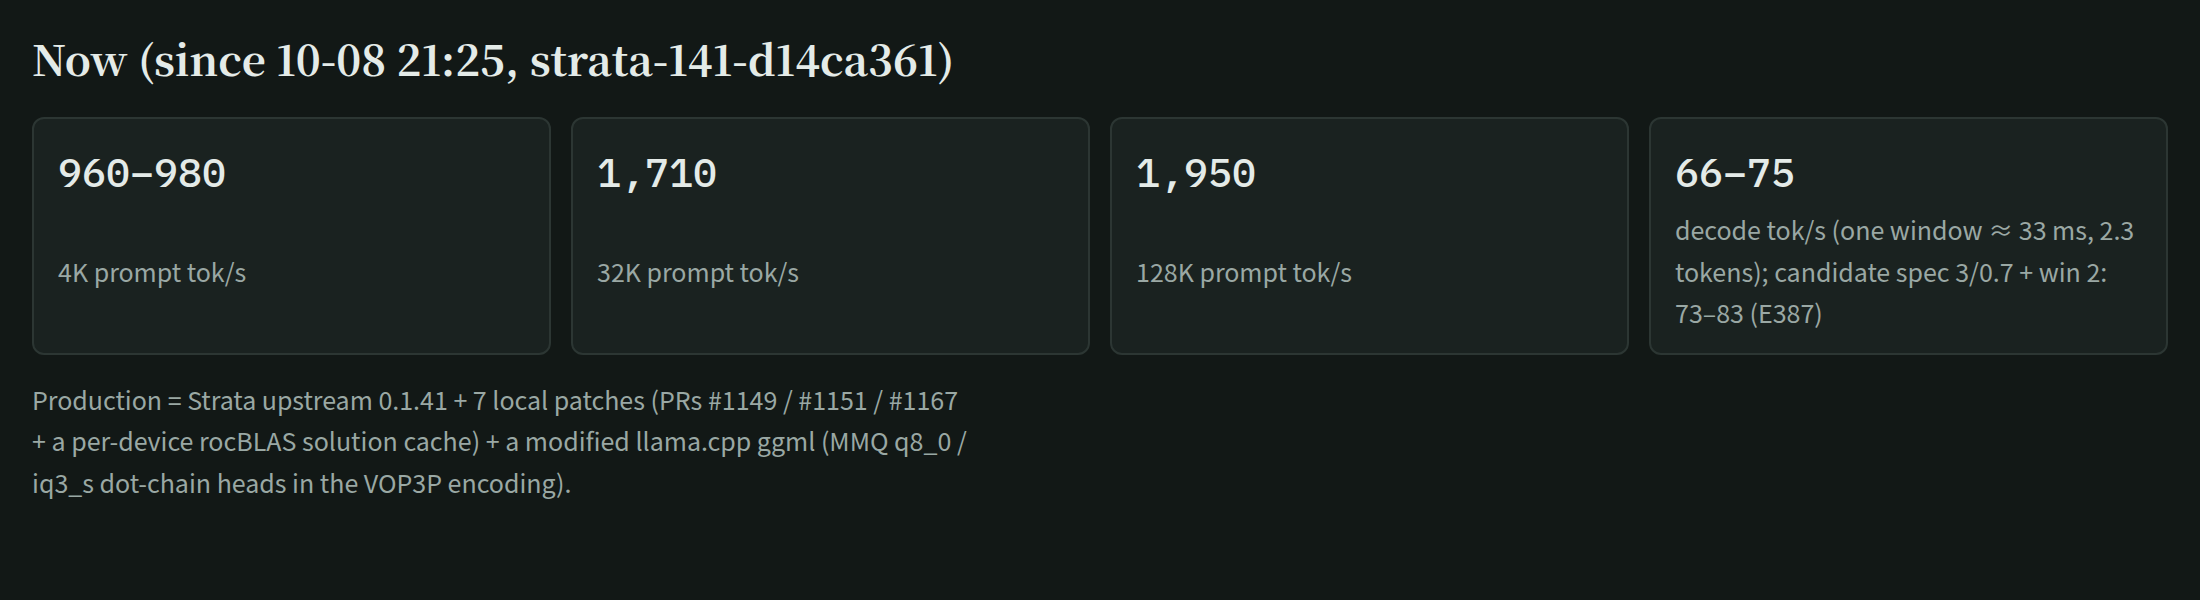
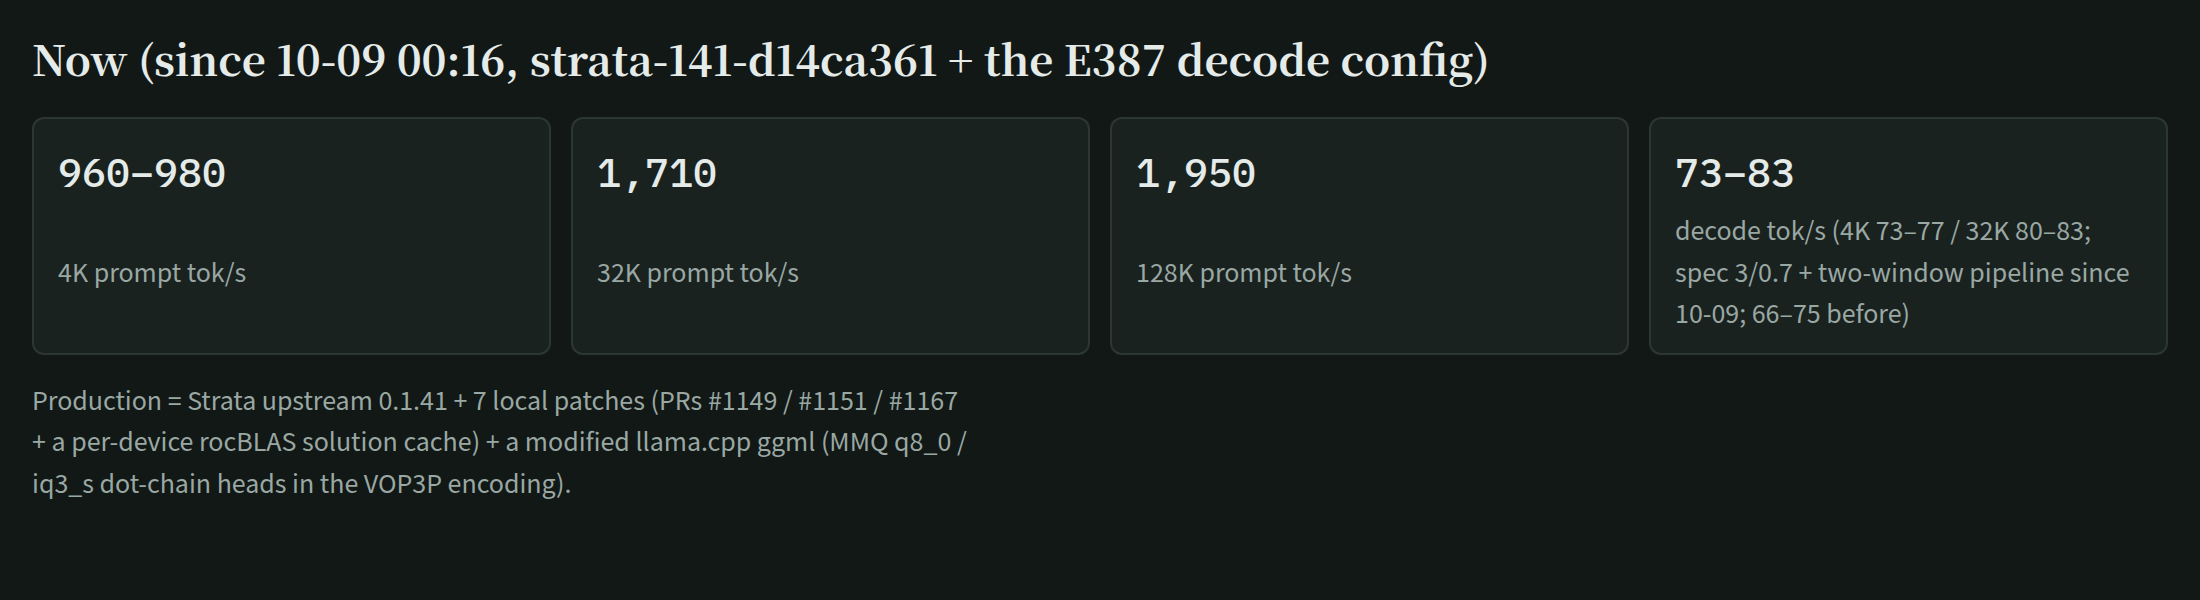
E387 decode config in production (10-09 00:16): status cards 73-83, chart point, timeline rows; images re-rendered

diff --git a/index.html b/index.html
@@ -79,12 +79,12 @@ code{font-family:var(--f-data);font-size:.92em}
 </header>
 
 <section>
-  <h2>现在（10-08 21:25 起，strata-141-d14ca361）</h2>
+  <h2>现在（10-09 00:16 起，strata-141-d14ca361 + E387 解码配置）</h2>
   <div class="now">
     <div><b>960–980</b><small>4K prompt tok/s</small></div>
     <div><b>1,710</b><small>32K prompt tok/s</small></div>
     <div><b>1,950</b><small>128K prompt tok/s</small></div>
-    <div><b>66–75</b><small>解码 tok/s（每窗 33 ms、2.3 token）；候选 spec 3/0.7 + win 2：73–83（E387）</small></div>
+    <div><b>73–83</b><small>解码 tok/s（4K 73–77 / 32K 80–83；spec 3/0.7 + 两窗流水线，10-09 起；之前 66–75）</small></div>
   </div>
   <p class="foot">生产 = Strata 上游 0.1.41 + 7 个本地补丁（PR #1149 / #1151 / #1167 + rocBLAS 解的本机缓存）+ 自改的 llama.cpp ggml（MMQ 的 q8_0 / iq3_s dot 链头用 VOP3P 编码）。</p>
 </section>
@@ -109,7 +109,7 @@ code{font-family:var(--f-data);font-size:.92em}
 <section>
   <h2>已经到地板的（10-08 后别再提）</h2>
   <ul class="closed">
-    <li><b>解码的配置级旋钮单独调都到头了：</b><code>--kv-resident</code> 缩小（E382，专家槽只 +0.7%）、单开 <code>--pipeline-windows 2</code>（E384，+1–6%）、<code>--spec</code> × <code>--spec-min-p</code> 16 点网格（E385，pipeline-windows 1 下 4/0.5 是峰值）。<b>但组合有效</b>：spec 3 / min-p 0.7 + pipeline-windows 2 解码 +10–16%（E387，三轮确认，候选）。</li>
+    <li><b>解码的配置级旋钮单独调都到头了：</b><code>--kv-resident</code> 缩小（E382，专家槽只 +0.7%）、单开 <code>--pipeline-windows 2</code>（E384，+1–6%）、<code>--spec</code> × <code>--spec-min-p</code> 16 点网格（E385，pipeline-windows 1 下 4/0.5 是峰值）。<b>但组合有效</b>：spec 3 / min-p 0.7 + pipeline-windows 2 解码 +10–16%（E387，三轮确认，10-09 上生产）。</li>
     <li><b>并发批槽：</b>常驻专家 41% 低于上游门槛 50%，槽里不带 MTP，2 路并发总吞吐不如单路（上游表）。</li>
     <li><b>IQ3_S 的 MMQ 分块 / stream-K</b>（E279/E280）、<code>--prefill</code> chunk 8192 即甜点（E296）、张量并行（E234，+6%）。</li>
     <li><b>上游自己测过对小卡无益：</b>GDN 分块（需 128 SM）、Foresight 交换槽（解码变慢）、STAGE_PIN（IQ3_S 损坏，改回 opt-in）。</li>
@@ -135,7 +135,7 @@ const M=[
   {k:'vision→HIP0\n10-07',p32:1652,p128:1874,d:74.0},
   {k:'q8k ggml\n10-08',p32:1711,p128:1957,d:74.3},
   {k:'0.1.41\n10-08',p32:1710,p128:1950,d:74.2},
-  {k:'spec3/0.7+win2\n10-08 候选',p32:1710,p128:null,d:82.2},
+  {k:'spec3/0.7+win2\n10-09',p32:1710,p128:null,d:82.2},
 ];
 (function(){
   const W=860,H=372,L=56,R=60,T=16,B=84;
@@ -195,7 +195,7 @@ const S=[
  ['10-08','21:25','engine','生产升 0.1.41（strata-141-d14ca361，E383）','跟上上游 151 个提交；7 个补丁 rebase 无冲突',[['12 条输出逐字相同、速度 ±0.5%、0 停转','flat'],['json 加 gpu_order=as_given 保住卡序','flat']]],
  ['10-08','21:27','drop','--pipeline-windows 2（E384）','第二卡验证本窗时第一卡提前算下一窗',[['解码 +1~6%','flat'],['输出跨启动不确定（2/7 同）、4K prompt −1~5%','down']]],
  ['10-08','21:50','drop','--spec × --spec-min-p 16 点网格（E385/E385b）','每窗 33 ms 固定，速度取决于每窗接受数',[['只有 5/0.6 在 32K +2.5%（单轮）','flat'],['其余全负，4/0.5 是峰值','down']]],
- ['10-08','23:42','decode','--spec 3 --spec-min-p 0.7 + --pipeline-windows 2（E387）','E384/E385 各自单变量都否定了，但短草稿几乎全接受（83% vs 68%）时，第二窗的推测才命中——两个旋钮有交互',[['解码 4K +10~16%、32K +8~11%，三轮确认','up'],['prompt 不变；输出跨启动不确定（基线是确定的）；128K 未测；候选，未上生产','flat']]],
+ ['10-08','23:42','decode','--spec 3 --spec-min-p 0.7 + --pipeline-windows 2（E387）','E384/E385 各自单变量都否定了，但短草稿几乎全接受（83% vs 68%）时，第二窗的推测才命中——两个旋钮有交互',[['解码 4K +10~16%、32K +8~11%，三轮确认','up'],['prompt 不变；输出跨启动不确定（基线是确定的）；128K 无编码器配置下 +11%（E388）；10-09 00:16 上生产','flat']]],
  ['10-08','22:50','drop','并发批槽（--batch N，0.1.41 的 batch-groups auto）','两卡流水能不能提总吞吐',[['常驻专家 41% < 门槛 50%；槽里不带 MTP','down'],['单人使用无意义，不测','flat']]],
 ];
 const on=new Set(Object.keys(LANES));

diff --git a/README.md b/README.md
@@ -20,10 +20,10 @@ Tuning log for **Qwen3.8-Flash-Next (GSQ-RCO IQ3_S)** on a home box with **2x AM
 
 ## 0. Where it stands
 
-- **Production (since 10-08 21:25):** Strata upstream 0.1.41 + 7 local patches (upstream PRs #1149 / #1151 / #1167 + a per-device rocBLAS solution cache) + a modified llama.cpp ggml (MMQ dot-chain heads in the VOP3P encoding on RDNA2). Two-card layer split, IQ3_S experts, int8 KV, MTP `--spec 4 --spec-min-p 0.5`.
-- **Speed (production config):** prompt 4K ≈ 960–980 tok/s, 32K ≈ 1,710, 128K ≈ 1,950; decode 66–75 tok/s (one verify window ≈ 33 ms yielding 2.3 tokens); candidate E387 config 73–83 tok/s.
+- **Production (binary since 10-08 21:25, decode config since 10-09 00:16):** Strata upstream 0.1.41 + 7 local patches (upstream PRs #1149 / #1151 / #1167 + a per-device rocBLAS solution cache) + a modified llama.cpp ggml (MMQ dot-chain heads in the VOP3P encoding on RDNA2). Two-card layer split, IQ3_S experts, int8 KV, MTP `--spec 4 --spec-min-p 0.5`.
+- **Speed (production config):** prompt 4K ≈ 960–980 tok/s, 32K ≈ 1,710, 128K ≈ 1,950; decode 73–83 tok/s (4K 73–77, 32K 80–83; `--spec 3 --spec-min-p 0.7 --pipeline-windows 2` since 10-09 00:16; 66–75 before).
 - **Whole journey, same IQ3_S model:** decode 26 → 66–75 tok/s (≈2.7×), 37K/50K prompt 274 → ~1,700 tok/s (≈6×). The engine switch (llama.cpp → Strata) is most of it; the patches and configuration after that add about +50% prompt (714 → 1,433 → 1,705 → 1,711) and about +20% decode.
-- **Closed directions (measured; do not retry on this box):** every decode-side configuration knob — `--kv-resident` shrink (E382), `--pipeline-windows 2` alone (E384, +1–6%), the 16-point `--spec` × `--spec-min-p` grid at `--pipeline-windows 1` (E385, 4/0.5 is the peak of accepted tokens per window) — **but the combination works**: `--spec 3 --spec-min-p 0.7 --pipeline-windows 2` decodes +10–16% at 4K and +8–11% at 32K (E387, three confirmation rounds; the short draft is accepted 83% of the time instead of 68%, so the speculative second window hits). Prompt speed unchanged; output differs between starts (the baseline is deterministic); 128K not yet measured; candidate, not in production; batch slots (resident experts 41% < upstream's 50% gate, slots decode without MTP); MMQ tile / stream-K for IQ3_S (E279/E280); `--prefill` chunks other than 8192 (E296); tensor parallel (E234, +6%); and the upstream opt-ins that upstream itself measured as neutral or negative on small cards (chunked GDN, Foresight swap slots, pinned stage buffers).
+- **Closed directions (measured; do not retry on this box):** every decode-side configuration knob — `--kv-resident` shrink (E382), `--pipeline-windows 2` alone (E384, +1–6%), the 16-point `--spec` × `--spec-min-p` grid at `--pipeline-windows 1` (E385, 4/0.5 is the peak of accepted tokens per window) — **but the combination works**: `--spec 3 --spec-min-p 0.7 --pipeline-windows 2` decodes +10–16% at 4K and +8–11% at 32K (E387, three confirmation rounds; the short draft is accepted 83% of the time instead of 68%, so the speculative second window hits). Prompt speed unchanged; output differs between starts (the baseline is deterministic); 128K +11% in the no-vision-encoder configuration (E388); in production since 10-09 00:16; batch slots (resident experts 41% < upstream's 50% gate, slots decode without MTP); MMQ tile / stream-K for IQ3_S (E279/E280); `--prefill` chunks other than 8192 (E296); tensor parallel (E234, +6%); and the upstream opt-ins that upstream itself measured as neutral or negative on small cards (chunked GDN, Foresight swap slots, pinned stage buffers).
 - **What is left:** the PCIe topology (x16 + x4 would give ~1.5× on long prompts but breaks RCCL tensor parallel for the dense 27B model on the same box — a trade the owner has not made); and kernel-level work on the prompt side, where expert GEMM, GDN, QSA attention and the hc read each take 10–15% (≤10% each at best).
 
 ## 1. Timeline
@@ -57,6 +57,7 @@ Tuning log for **Qwen3.8-Flash-Next (GSQ-RCO IQ3_S)** on a home box with **2x AM
 | 10-08 19:25 | production strata-q8k-4592281: ggml from the modified llama.cpp (MMQ q8_0 / iq3_s dot-chain heads in VOP3P, E378) | iq3_s kernel +2.6% → 32K prompt +1.4–1.5%, outputs byte-identical |
 | 10-08 20:30 | E382 `--kv-resident` 32K → 16K | expert slots only +0.7%, 32K decode −3%, dropped |
 | 10-08 21:25 | **production strata-141-d14ca361**: upstream 0.1.41 + the 7 patches rebased (clean) | 12 outputs byte-identical, speed ±0.5%, 0 stalls; json gets `gpu_order: as_given` |
+| 10-09 00:16 | **E387 config in production** (`strata-split` / `-256k`: `--spec 3 --spec-min-p 0.7 --pipeline-windows 2`, backups `*.bak-2026-10-09-before-e387`) | one real 7K request through llama-swap: confirm line present, split 0–26/27–47, prompt 1,019, decode 73.4, 92% drafts accepted |
 | 10-09 00:13 | E388 0.1.41 community report (5 split arms, no vision encoder) | stock 0.1.41 vs 0.1.40.1 stock: prompt +4–6% (464/767/869); the two switches +5/+12/+12% (832/1,619/1,823); PRs unchanged (968/1,714/2,029); kernel-copy free, stock 128K no stall; the E387 decode config +19/+20/+11% (77/82/76) |
 | 10-08 23:42 | E387 `--spec 3 --spec-min-p 0.7 --pipeline-windows 2` | decode 4K 66 → 73–77, 32K 74 → 80–83 (+8–16%, 3 rounds), prompt unchanged; output non-deterministic across starts; candidate |
 | 10-08 21:27 | E384 `--pipeline-windows 2` | decode +1–6% but outputs differ between starts (2/7 same), 4K prompt −1–5%; dropped |

diff --git a/README.zh-CN.md b/README.zh-CN.md
@@ -33,10 +33,10 @@ AiBox：2× RX 6900 XT（gfx1030，各 PCIe 4.0 x8）/ Ryzen 5 5600X / 128 GB，
 
 ## 0. 结论（先看这里）
 
-- **生产（10-08 21:25 起）**：llama-swap `strata-split` / `strata-split-256k` = `strata-141-d14ca361`（Strata 上游 0.1.41 + 我们 7 个补丁 + llama-q2k 的 ggml）。回退槽 `strata-split-prev` = strata-q8k-4592281。
-- **现在的速度**（E383/E385 的 P 臂，生产配置）：prompt 4K ≈ 960–980 tok/s、32K ≈ 1,710、128K ≈ 1,950；解码 66–75 tok/s（每窗约 33 ms 出 2.3 个 token）；候选 E387 配置 73–83。
+- **生产（10-09 00:16 起，解码配置换 E387；二进制 10-08 21:25 起）**：llama-swap `strata-split` / `strata-split-256k` = `strata-141-d14ca361`（Strata 上游 0.1.41 + 我们 7 个补丁 + llama-q2k 的 ggml）。回退槽 `strata-split-prev` = strata-q8k-4592281。
+- **现在的速度**（E383/E385 的 P 臂，生产配置）：prompt 4K ≈ 960–980 tok/s、32K ≈ 1,710、128K ≈ 1,950；解码 73–83 tok/s（4K 73–77 / 32K 80–83；`--spec 3 --spec-min-p 0.7 --pipeline-windows 2`，10-09 00:16 起；之前 66–75）。
 - **从 llama.cpp 到 Strata 的总账**（同一份 IQ3_S）：解码 26 → 66–75 tok/s（≈2.7×），37K/50K prompt 274 → 1,700（≈6×）。其中 Strata 本身换引擎占大头，之后我们的补丁和配置累计 prompt 约 +50%（714 → 1,433 → 1,705 → 1,711），解码约 +20%。
-- **已经到地板的（别再试）**：解码的配置级杠杆**单独调**全部否定——`--kv-resident` 缩小（E382）、单开 `--pipeline-windows 2`（E384，+1–6%）、pipeline-windows 1 下的 `--spec`/`--spec-min-p` 16 点网格（E385/b，4/0.5 是峰值）；**但组合有效**：`--spec 3 --spec-min-p 0.7 --pipeline-windows 2` 解码 4K +10–16%、32K +8–11%（E387，三轮确认；短草稿接受率 83% vs 68%，第二窗的推测才命中），prompt 不变，输出跨启动不确定（基线是确定的），128K 未测，候选未上生产；并发批槽对这台机器无益（常驻专家 41% < 上游门槛 50%，槽里不带 MTP）；IQ3_S 的 MMQ 分块/stream-K（E279/E280）；`--prefill` chunk 8192 即甜点（E296）；上游的 GDN 分块、Foresight、STAGE_PIN（上游自测对小卡无益或有害）。
+- **已经到地板的（别再试）**：解码的配置级杠杆**单独调**全部否定——`--kv-resident` 缩小（E382）、单开 `--pipeline-windows 2`（E384，+1–6%）、pipeline-windows 1 下的 `--spec`/`--spec-min-p` 16 点网格（E385/b，4/0.5 是峰值）；**但组合有效**：`--spec 3 --spec-min-p 0.7 --pipeline-windows 2` 解码 4K +10–16%、32K +8–11%（E387，三轮确认；短草稿接受率 83% vs 68%，第二窗的推测才命中），prompt 不变，输出跨启动不确定（基线是确定的），128K 在无编码器配置下 +11%（E388）；10-09 00:16 上生产；并发批槽对这台机器无益（常驻专家 41% < 上游门槛 50%，槽里不带 MTP）；IQ3_S 的 MMQ 分块/stream-K（E279/E280）；`--prefill` chunk 8192 即甜点（E296）；上游的 GDN 分块、Foresight、STAGE_PIN（上游自测对小卡无益或有害）。
 - **还有空间的**：PCIe 拓扑换 x16+x4（大 prompt 约 1.5×，但 27B 的张量并行会崩，二选一，由用户定）；prompt 侧专家 GEMM / GDN / QSA 注意力 / hc 读各占 10–15%，每项都是内核级工作，≤10%。
 
 ## 1. 时间线
@@ -70,6 +70,7 @@ AiBox：2× RX 6900 XT（gfx1030，各 PCIe 4.0 x8）/ Ryzen 5 5600X / 128 GB，
 | 10-08 19:25 | 生产 strata-q8k-4592281：ggml 换 llama-q2k（MMQ q8_0/iq3_s 链头 VOP3P，E378） | iq3_s 内核 +2.6% → 32K prompt +1.4–1.5%，输出逐字相同 |
 | 10-08 20:30 | E382 `--kv-resident` 32K → 16K | 专家槽只 +0.7%，32K 解码 −3%，否决 |
 | 10-08 21:25 | **生产 strata-141-d14ca361**：上游 0.1.41 + 7 补丁 rebase（无冲突） | 12 条输出逐字相同、速度 ±0.5%、0 停转；json 加 `gpu_order: as_given` |
+| 10-09 00:16 | **E387 配置上生产**（strata-split / -256k：`--spec 3 --spec-min-p 0.7 --pipeline-windows 2`，备份 *.bak-2026-10-09-before-e387） | 经 llama-swap 实发 7K 请求：确认行出现，分层 0–26/27–47，prompt 1,019、解码 73.4，草稿接受 92% |
 | 10-09 00:13 | E388 0.1.41 社区报告（split 五臂，无图片编码器） | stock 0.1.41 比 0.1.40.1 stock prompt +4–6%（464/767/869），两开关 +5/+12/+12%（832/1,619/1,823），PRs 持平（968/1,714/2,029）；kernel-copy 无代价、stock 128K 不停转；E387 解码配置 +19/+20/+11%（77/82/76） |
 | 10-08 23:42 | E387 `--spec 3 --spec-min-p 0.7 --pipeline-windows 2` | 解码 4K 66 → 73–77、32K 74 → 80–83（+8–16%，三轮），prompt 不变；输出跨启动不确定；候选 |
 | 10-08 21:27 | E384 `--pipeline-windows 2` | 解码 +1–6% 但跨启动输出不确定（2/7 同），4K prompt −1–5%，否决 |
